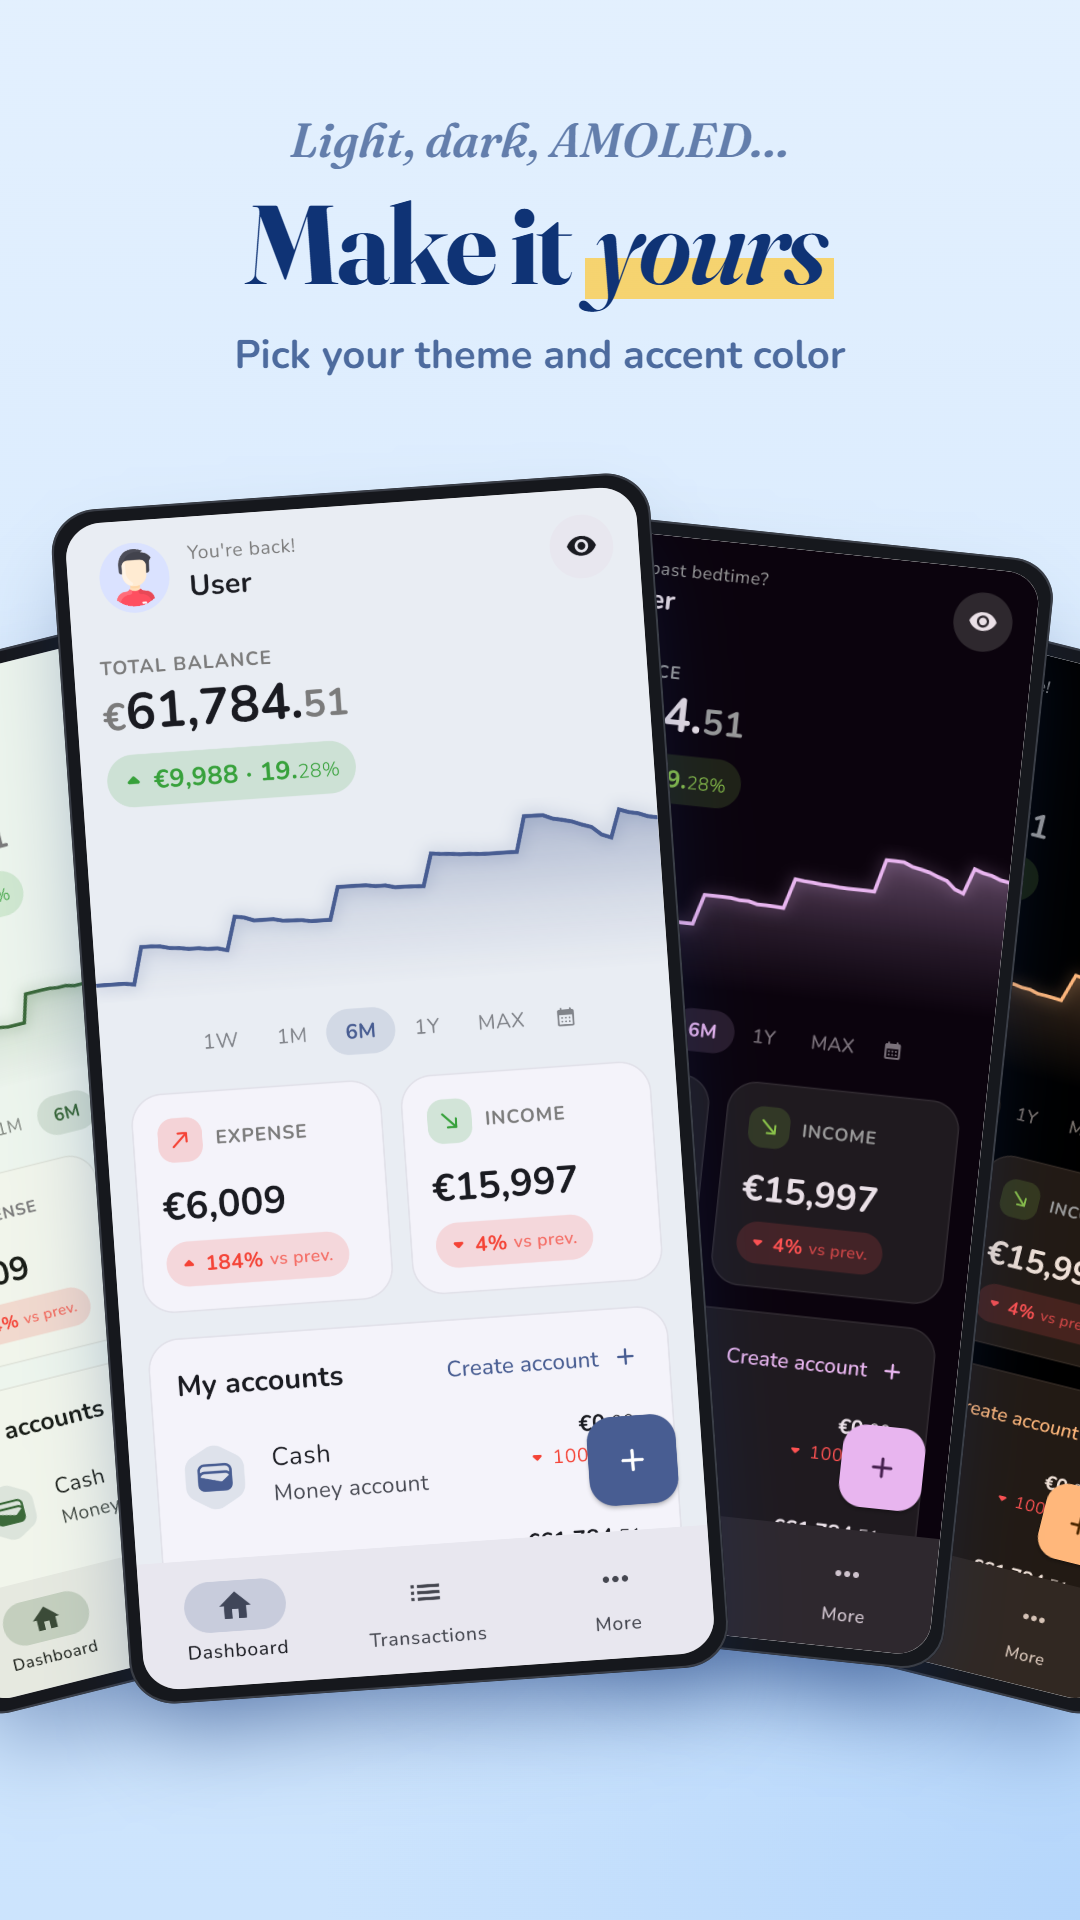
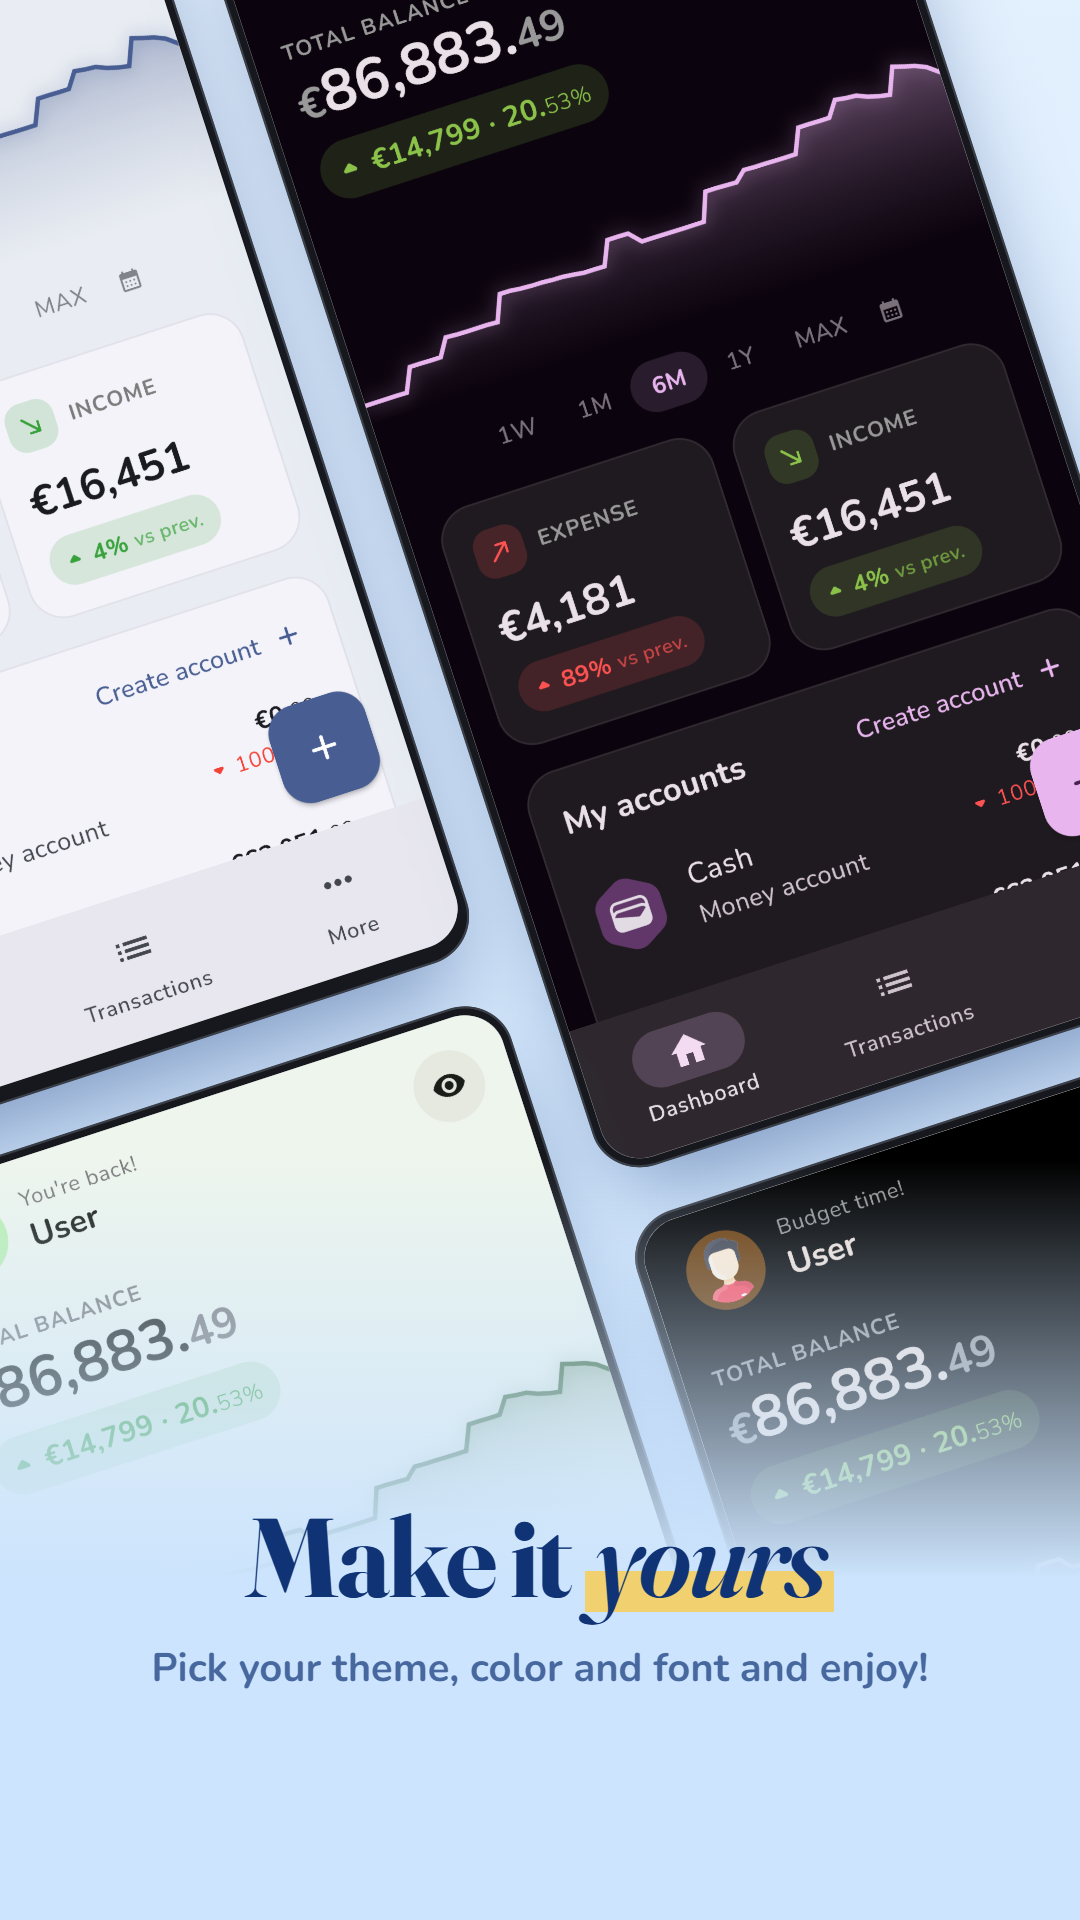
feat: Improve image design

diff --git a/lib/core/presentation/widgets/expanding_segmented_tabs.dart b/lib/core/presentation/widgets/expanding_segmented_tabs.dart
@@ -311,41 +311,46 @@ class ExpandingSegmentedTabs<T> extends StatelessWidget {
         onTap: () => onSelected(item.value),
         bgColor: bgColor,
         borderRadius: innerShape,
-        child: Row(
-          mainAxisAlignment: MainAxisAlignment.center,
-          children: [
-            Icon(item.icon, size: _iconSize, color: fgColor),
-            if (showLabel)
-              Flexible(
-                child: Padding(
+        child: Padding(
+          padding: EdgeInsets.symmetric(
+            horizontal: showLabel ? _horizontalPadding : 0,
+          ),
+          child: Row(
+            mainAxisAlignment: MainAxisAlignment.center,
+            children: [
+              Icon(item.icon, size: _iconSize, color: fgColor),
+              if (showLabel)
+                Flexible(
+                  child: Padding(
+                    padding: const EdgeInsets.only(left: _labelGap),
+                    child: Text(
+                      item.label,
+                      maxLines: 1,
+                      overflow: TextOverflow.ellipsis,
+                      style: _labelStyle.copyWith(color: fgColor),
+                    ),
+                  ),
+                ),
+              if (showLabel && item.badgeCount != null)
+                Padding(
                   padding: const EdgeInsets.only(left: _labelGap),
-                  child: Text(
-                    item.label,
-                    maxLines: 1,
-                    overflow: TextOverflow.ellipsis,
-                    style: _labelStyle.copyWith(color: fgColor),
+                  child: Container(
+                    padding: const EdgeInsets.symmetric(
+                      horizontal: 6,
+                      vertical: 1,
+                    ),
+                    decoration: BoxDecoration(
+                      color: fgColor.withValues(alpha: 0.16),
+                      borderRadius: BorderRadius.circular(9999),
+                    ),
+                    child: Text(
+                      '${item.badgeCount}',
+                      style: _badgeTextStyle.copyWith(color: fgColor),
+                    ),
                   ),
                 ),
-              ),
-            if (showLabel && item.badgeCount != null)
-              Padding(
-                padding: const EdgeInsets.only(left: _labelGap),
-                child: Container(
-                  padding: const EdgeInsets.symmetric(
-                    horizontal: 6,
-                    vertical: 1,
-                  ),
-                  decoration: BoxDecoration(
-                    color: fgColor.withValues(alpha: 0.16),
-                    borderRadius: BorderRadius.circular(9999),
-                  ),
-                  child: Text(
-                    '${item.badgeCount}',
-                    style: _badgeTextStyle.copyWith(color: fgColor),
-                  ),
-                ),
-              ),
-          ],
+            ],
+          ),
         ),
       ),
     );

diff --git a/app-marketplaces/store-images/slides/07-privacy.html b/app-marketplaces/store-images/slides/07-privacy.html
@@ -32,6 +32,6 @@
   </ul>
 
   <!-- Listed from back to front -->
-  <store-phone shot="11_net_worth_composition" style="right: -150px; top: 980px; width: 440px; rotate: 10deg"></store-phone>
-  <store-phone shot="13_asset_details" style="right: 50px; top: 380px; width: 450px; rotate: 5deg"></store-phone>
+  <store-phone shot="11_net_worth_composition" style="right: -60px; top: 1000px; width: 440px; rotate: 10deg"></store-phone>
+  <store-phone shot="13_asset_details" style="right: 6px; top: 380px; width: 450px; rotate: -10deg"></store-phone>
 </store-slide>

diff --git a/integration_test/tests/screenshots/screenshots_test.dart b/integration_test/tests/screenshots/screenshots_test.dart
@@ -457,7 +457,6 @@ Future<void> _captureLocale(
   await tester.tap(apartment.first);
   await tester.pumpAndSettle();
   expect(find.byType(AssetDetailsPage), findsOneWidget);
-  await _collapsePageTitle(tester, AssetDetailsPage);
   await shoot(ScreenshotName.assetDetails);
   await tester.tap(find.backButton());
   await tester.pumpAndSettle();
